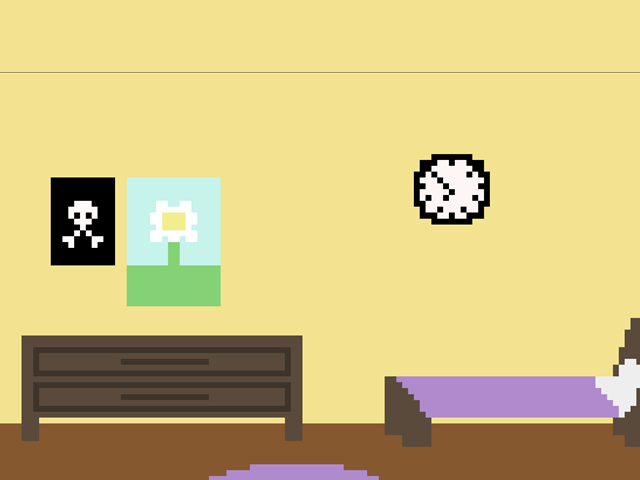
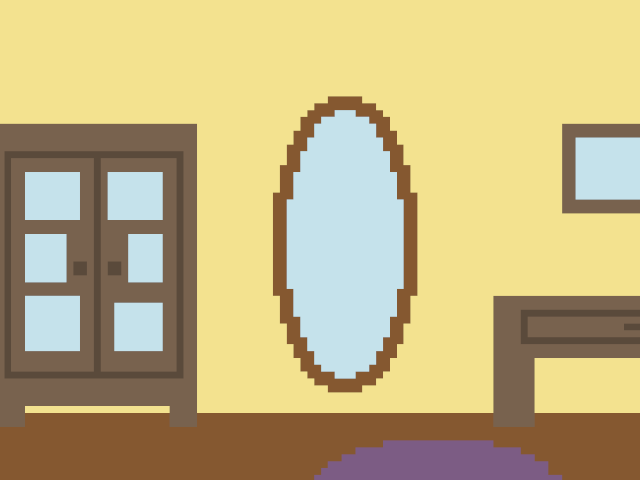
Atores e mais um cenario

diff --git a/acarta/acarta.js b/acarta/acarta.js
@@ -1,6 +1,7 @@
 import globals from './globals.js'
 
 const loading = document.getElementById("loading")
+const progress = document.getElementById("progress")
 const mycanvas = globals.canvas
 const ctx = globals.ctx
 const step_distance = globals.step_distance
@@ -17,6 +18,15 @@ const scenes = {
         image: null,
         left: false,
         right: false,
+        actors: [],
+    },
+    quarto: {
+        id: 'quarto',
+        sprite: "acarta/imagens/quarto2.png",
+        image: null,
+        left: false,
+        right: false,
+        actors: [],
     },
     cave: {
         id: 'cave',
@@ -24,6 +34,7 @@ const scenes = {
         image: null,
         left: false,
         right: false,
+        actors: [],
     },
     escola: {
         id: 'escola',
@@ -31,6 +42,7 @@ const scenes = {
         image: null,
         left: false,
         right: false,
+        actors: [],
     },
     biblioteca: {
         id: 'biblioteca',
@@ -38,6 +50,7 @@ const scenes = {
         image: null,
         left: false,
         right: false,
+        actors: [],
     },
 }
 const actors = {
@@ -79,7 +92,35 @@ const actors = {
                 actors.mario.goto = false
             } 
         }
-    }
+    },
+    barbara: {
+        id: 'barbara',
+        sprite: "/acarta/imagens/barbara2.png",
+        image: null,
+        x: 0,
+        y: 0,
+    },
+    boneca: {
+        id: 'boneca',
+        sprite: "/acarta/imagens/boneca2.png",
+        image: null,
+        x: 0,
+        y: 0,
+    },
+    felix: {
+        id: 'felix',
+        sprite: "/acarta/imagens/felix2.png",
+        image: null,
+        x: 0,
+        y: 0,
+    },
+    hugo: {
+        id: 'hugo',
+        sprite: "/acarta/imagens/hugo2.png",
+        image: null,
+        x: 0,
+        y: 0,
+    },
 }
 
 async function inicializar() {
@@ -88,65 +129,74 @@ async function inicializar() {
     scenes.casa.image = new Image()
     scenes.casa.image.src = scenes.casa.sprite
     scenes.casa.left = scenes.escola
-    scenes.casa.right = scenes.cave
+    scenes.casa.right = scenes.quarto
     await scenes.casa.image.decode()
+    loading.innerHTML = 'A carregar 10%'
+    progress.value = .1 
+    scenes.quarto.image = new Image()
+    scenes.quarto.image.src = scenes.quarto.sprite
+    scenes.quarto.left = scenes.casa
+    scenes.quarto.right = scenes.cave
+    await scenes.quarto.image.decode()
+    loading.innerHTML = 'A carregar 20%'
+    progress.value = .2 
     scenes.cave.image = new Image()
     scenes.cave.image.src = scenes.cave.sprite
     scenes.cave.left = scenes.casa
     await scenes.cave.image.decode()
+    loading.innerHTML = 'A carregar 30%'
+    progress.value = .3 
     scenes.escola.image = new Image()
     scenes.escola.image.src = scenes.escola.sprite
     scenes.escola.left = scenes.biblioteca
     scenes.escola.right = scenes.casa
     await scenes.escola.image.decode()
+    loading.innerHTML = 'A carregar 40%'
+    progress.value = .4 
     scenes.biblioteca.image = new Image()
     scenes.biblioteca.image.src = scenes.biblioteca.sprite
     scenes.biblioteca.right = scenes.escola
     await scenes.biblioteca.image.decode()
+    loading.innerHTML = 'A carregar 50%'
+    progress.value = .5 
     // init actors
     actors.mario.image = new Image()
     actors.mario.image.src = actors.mario.sprite
     await actors.mario.image.decode() 
+    loading.innerHTML = 'A carregar 60%'
+    progress.value = .6 
     actors.mario.x = bound.width / 2 - actors.mario.image.width / 2  // initial position middle of scene
     actors.mario.sety(floor)
+    actors.barbara.image = new Image()
+    actors.barbara.image.src = actors.barbara.sprite
+    await actors.barbara.image.decode() 
+    loading.innerHTML = 'A carregar 70%'
+    progress.value = .7 
+    actors.boneca.image = new Image()
+    actors.boneca.image.src = actors.boneca.sprite
+    await actors.boneca.image.decode() 
+    loading.innerHTML = 'A carregar 80%'
+    progress.value = .8 
+    actors.felix.image = new Image()
+    actors.felix.image.src = actors.felix.sprite
+    await actors.felix.image.decode() 
+    loading.innerHTML = 'A carregar 90%'
+    progress.value = .9 
+    actors.hugo.image = new Image()
+    actors.hugo.image.src = actors.hugo.sprite
+    await actors.hugo.image.decode() 
+    loading.innerHTML = 'A carregar 100%'
+    progress.value = 1
+    
+    // finish
     stage.scene = scenes.casa
     stage.actors.push(actors.mario)
     renderStage() 
     loading.style.display = "none"
+    progress.style.display = "none"
     mycanvas.style.display = "block"
 }
 
-async function loadSceneByKey(key) {
-    const scene = scenes[Object.keys(scenes)[sceneKey]]
-    await loadScene(scene) 
-}
-async function loadScene(scene) {
-    ctx.drawImage(scene.image, 0, 0)
-}
-
-async function actorToScene(actor) {
-    actorTo(actor, actor.scenePos)
-}
-async function actorTo(actor, x) {
-    // update actor current position
-    actor.x = x
-    // update scene
-    const y = floor - actors.mario.image.height
-    loadSceneByKey(sceneKey)
-    ctx.drawImage(actor.image, x, y)
-}
-
-async function actorMoveTo(actor, x) {
-    while (actor.x !== x) {
-        let newpos = -1 
-        if (actor.x > x) {
-            newpos = (actor.x - x) / 2 + x
-        } else {
-            newpos = actor, (x - actor.x) / 2 + actor.x
-        }
-        await actorTo(actor, newpos)
-    }
-}
 mycanvas.addEventListener("click", (ev) => {
     const bound = mycanvas.getBoundingClientRect() 
     const x = ev.clientX - bound.left

diff --git a/acarta.html b/acarta.html
@@ -7,7 +7,10 @@
     <h1 class="centered-text">A Carta<sup>tm</sup></h1>
 
     <div>
-        <h2 id="loading">A carregar...</h2>
+        <h2 id="loading">A carregar 0%</h2>
+        <progress id="progress" value="0" />
+    </div>
+    <div>
         <canvas id="mycanvas" width="640" height="480"></canvas>
     </div>
 